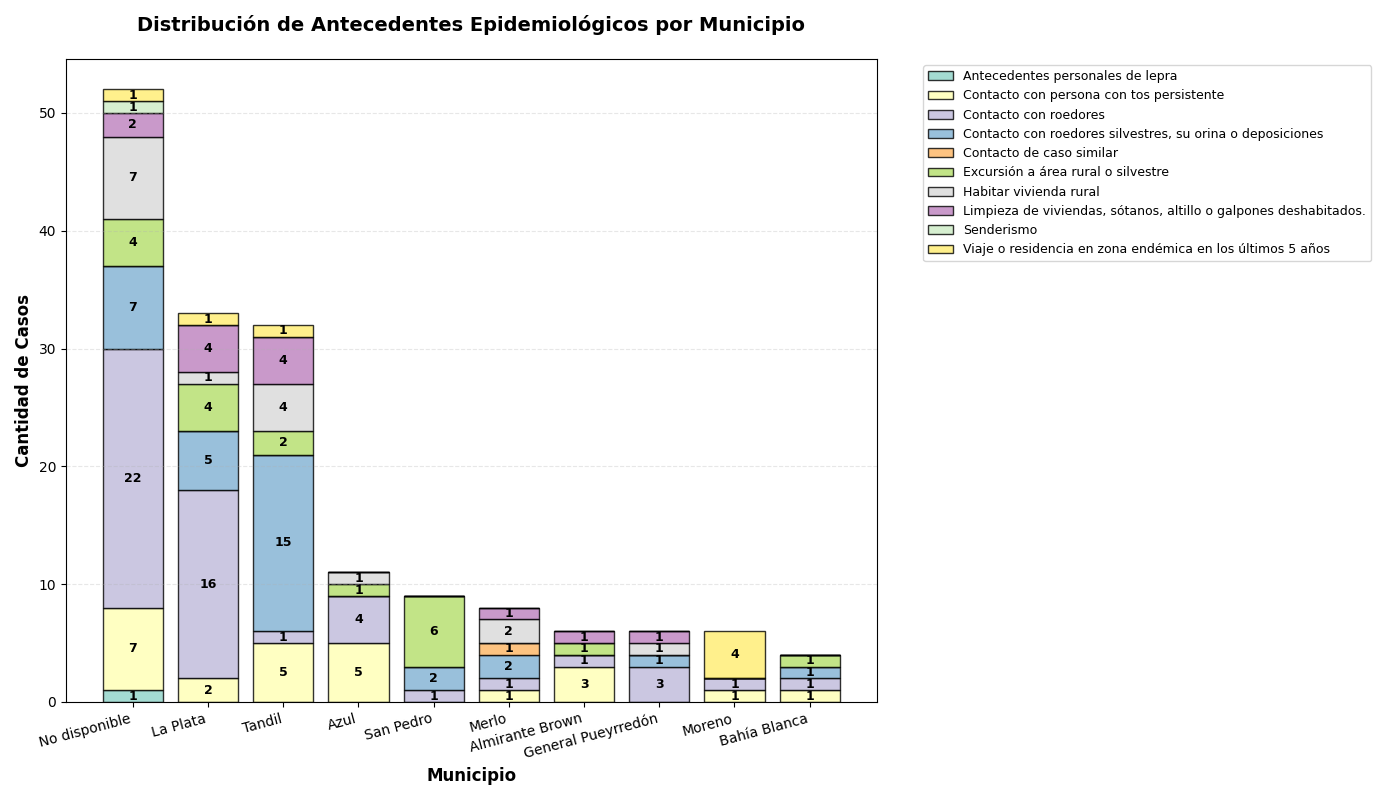
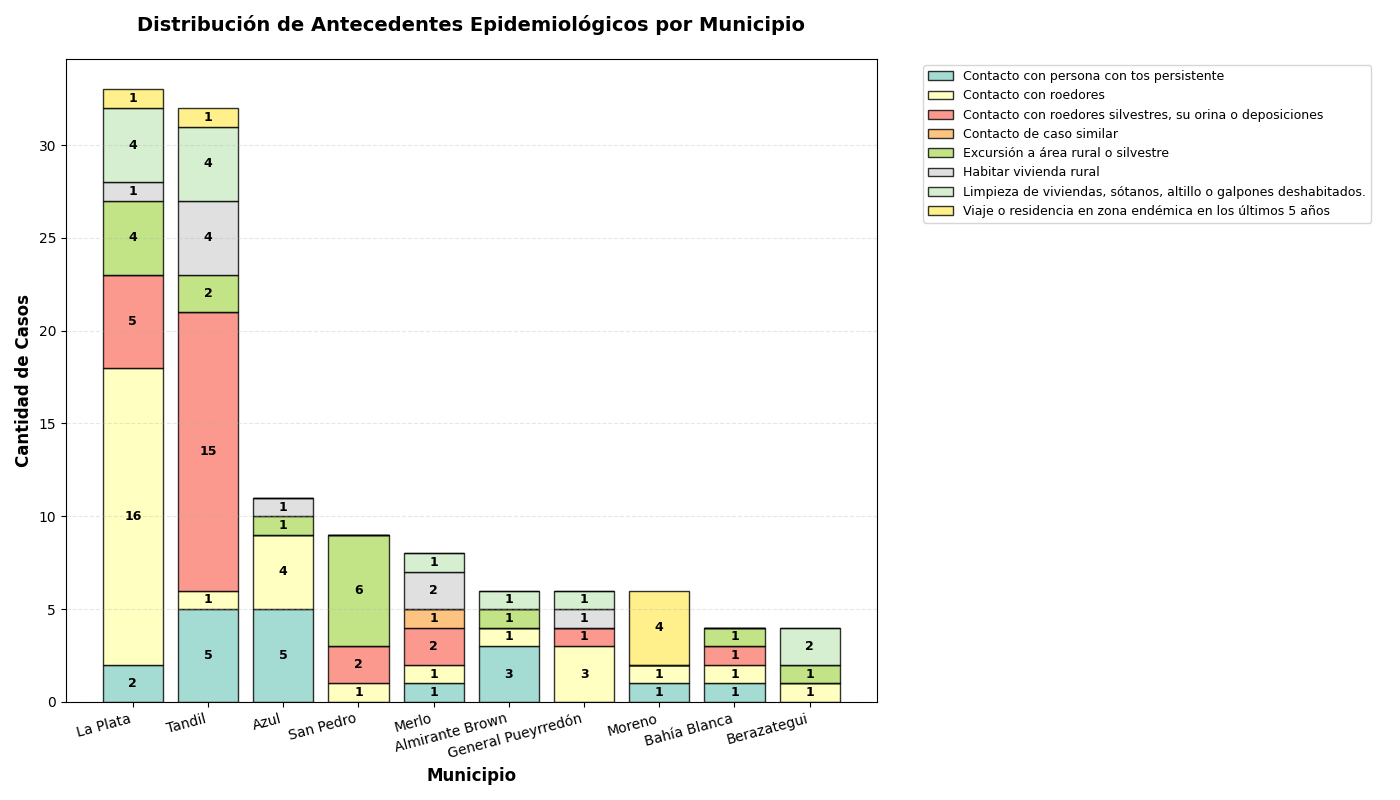
Cambios en codigo, error en filtrado de datos

Changed region(s): [[0.0307, 0.125, 0.6143, 0.9375], [0.645, 0.0938, 0.9829, 0.3438], [0.0307, 0.2812, 0.0614, 0.3125]]

diff --git a/antecedentes_municipios.py b/antecedentes_municipios.py
@@ -3,7 +3,7 @@ import pandas as pd
 
 df = pd.read_csv("df_limpio_municipio_sin_repeticiones.csv", encoding="utf-8")
 
-df_filtrado = df[(df["antecedente_epidemiologico"] != "No disponible") & (df["municipio"] != "No disponible")]
+df_filtrado = df[(df["antecedente_epidemiologico"] != "No disponible") & (df["municipio"] != " No disponible")]
 
 tabla_df_municipio = (
     df_filtrado.groupby(['municipio', 'antecedente_epidemiologico'])

diff --git a/municipio.py b/municipio.py
@@ -2,7 +2,7 @@ import pandas as pd
 
 df_unico = pd.read_csv("df_limpio_municipio_sin_repeticiones.csv")
 #filtro columna no disponible.
-df_filtrado = df_unico[df_unico["municipio"] != "No disponible"]
+df_filtrado = df_unico[df_unico["municipio"] != " No disponible"]
 
 #agrupar cantidad de casos por municipio.
 casos_por_municipio = df_filtrado.groupby("municipio")["evento"].count().reset_index()

diff --git a/municipio2.py b/municipio2.py
@@ -2,7 +2,7 @@ import pandas as pd
 
 df_unico = pd.read_csv("df_limpio_municipio_sin_repeticiones.csv")
 #filtro columna no disponible.
-df_filtrado = df_unico[df_unico["municipio"] != "No disponible"]
+df_filtrado = df_unico[df_unico["municipio"] != " No disponible"]
 
 casos_por_municipio = (
     df_filtrado.groupby("municipio")["evento"]

diff --git a/municipio3.py b/municipio3.py
@@ -2,7 +2,7 @@ import pandas as pd
 
 df_unico = pd.read_csv("df_limpio_municipio_sin_repeticiones.csv")
 #filtro columna no disponible.
-df_filtrado = df_unico[df_unico["municipio"] != "No disponible"]
+df_filtrado = df_unico[df_unico["municipio"] != " No disponible"]
 
 #total de casos por municipio
 casos_por_municipio = (

diff --git a/antecedentes_epidemiologicos_municipio.py b/antecedentes_epidemiologicos_municipio.py
@@ -5,6 +5,8 @@ import numpy as np
 # Leer directamente el archivo CSV
 df = pd.read_csv('antecedentes_epidemiologicos_municipios.csv')
 
+df = df[df['municipio'] != " No disponible"]
+
 top_10_municipios = df.groupby('municipio')['cantidad_casos'].sum().nlargest(10).index
 
 # Filtrar datos para solo los top 10 municipios
